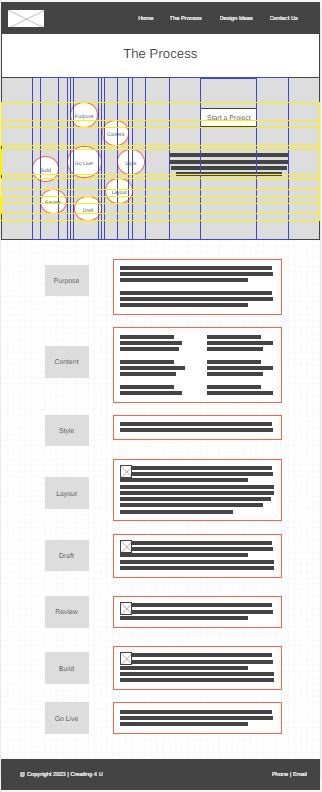
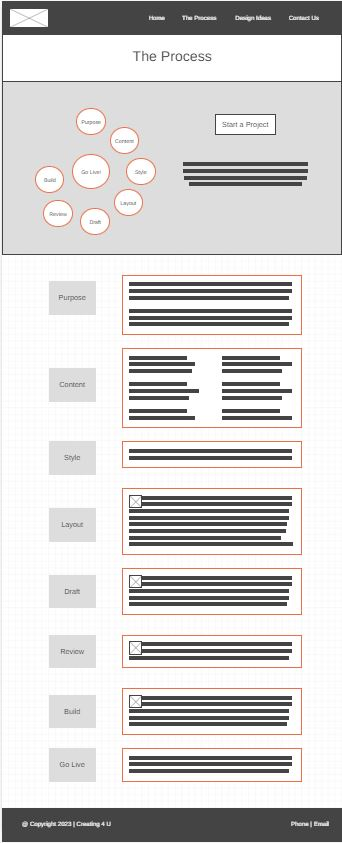
C4U begin Ideas page

diff --git a/creating4u/styles/styles.css b/creating4u/styles/styles.css
@@ -245,16 +245,16 @@ textarea {
     margin-top: 3em;
 }
 
-/* for THE PROCESS page */
+/* for THE PROCESS & DESIGN IDEAS pages */
 
-.hero_proc {
+.hero_proc, .hero_ideas {
     display: grid;
     grid-template-columns: 50% 50%;
     padding: 0;
     margin: 0;
     background-color: var(--secondary-color);
 }
-.hero_proc h1 {
+.hero_proc h1, .hero_ideas h1 {
     display: grid;
     grid-row: 1/2;
     grid-column: 1/3;
@@ -263,7 +263,43 @@ textarea {
     padding: 20px;
 }
 
-/* Hero List Formatting - a grid in a grid*/
+/* Hero List Formatting IDEAS - a grid in a grid*/
+.hero_icons {
+    display: grid;
+    grid-row: 2/3;
+    min-height: 374px;
+    min-width: 374px;
+    grid-template-columns: auto 60px 20px 60px 80px 60px 20px 60px auto;
+    grid-template-rows: auto 50px 75px 25px 25px 25px 75px 50px auto;
+}
+.hero_icons .icon {
+    border: 3px solid var(--accent1-color);
+    display: grid;
+    align-self: center;
+    background-color: var(--alt-white-color);
+    min-width: 70px;
+    padding: 20px;
+    margin-left: 0 auto;
+}
+.icon:nth-child(1) {
+    grid-column: 2/4;
+    grid-row: 2/4;
+}
+.icon:nth-child(2) {
+    grid-column: 3/5;
+    grid-row: 5/8;
+}
+.icon:nth-child(3) {
+    grid-column: 6/8;
+    grid-row: 3/6;
+}
+.icon:nth-child(4) {
+    grid-column: 7/9;
+    grid-row: 7/9;
+}
+
+
+/* Hero List Formatting PROCESS - a grid in a grid*/
 .hero_proc_list {
     display: grid;
     grid-row: 2/3;
@@ -316,13 +352,13 @@ textarea {
 }
 
 /* Process Hero Message formatting */
-.hero_proc {
+.hero_proc, .hero_ideas {
     border: 3px solid var(--nav-background-color);
 }
-.hero_proc h1 {
+.hero_proc h1, .hero_ideas h1 {
     border-bottom: 1px solid var(--nav-background-color);
 }
-.hero_proc_msg {
+.hero_proc_msg, .hero_ideas_msg {
     grid-row: 2/3;
     grid-column: 2/3;
     max-width: 500px;
@@ -342,12 +378,12 @@ textarea {
     color: var(--nav-link-color);
     box-shadow: 2px 2px 2px 0px var(--nav-background-color);
 }
-.hero_proc_msg p {
+.hero_proc_msg p, .hero_ideas_msg p {
     margin-top: 60px;
 }
 
 /* Process Contect Section */
-.proc_content {
+.proc_content, .idea_content {
     width: 95%;
     margin: 0 auto;
     margin-top: 80px;

diff --git a/creating4u/ideas.html b/creating4u/ideas.html
@@ -20,7 +20,7 @@
     </header>
 
     <main>
-        <div class="hero">
+        <div class="hero_ideas">
             <h1>Design Ideas</h1>
             <div class="hero_icons">
                 <img class="icon" src="images/icon_logo.png" alt="lightbulb icon">
@@ -28,7 +28,7 @@
                 <img class="icon" src="images/icon_text.png" alt="textbox icon">
                 <img class="icon" src="images/icon_pics.png" alt="picture icon">
             </div>
-            <div class="hero_msg">
+            <div class="hero_ideas_msg">
                 <div class="button-box">
                     <a class="start" href="contact.html">Start a Project</a>
                 </div>
